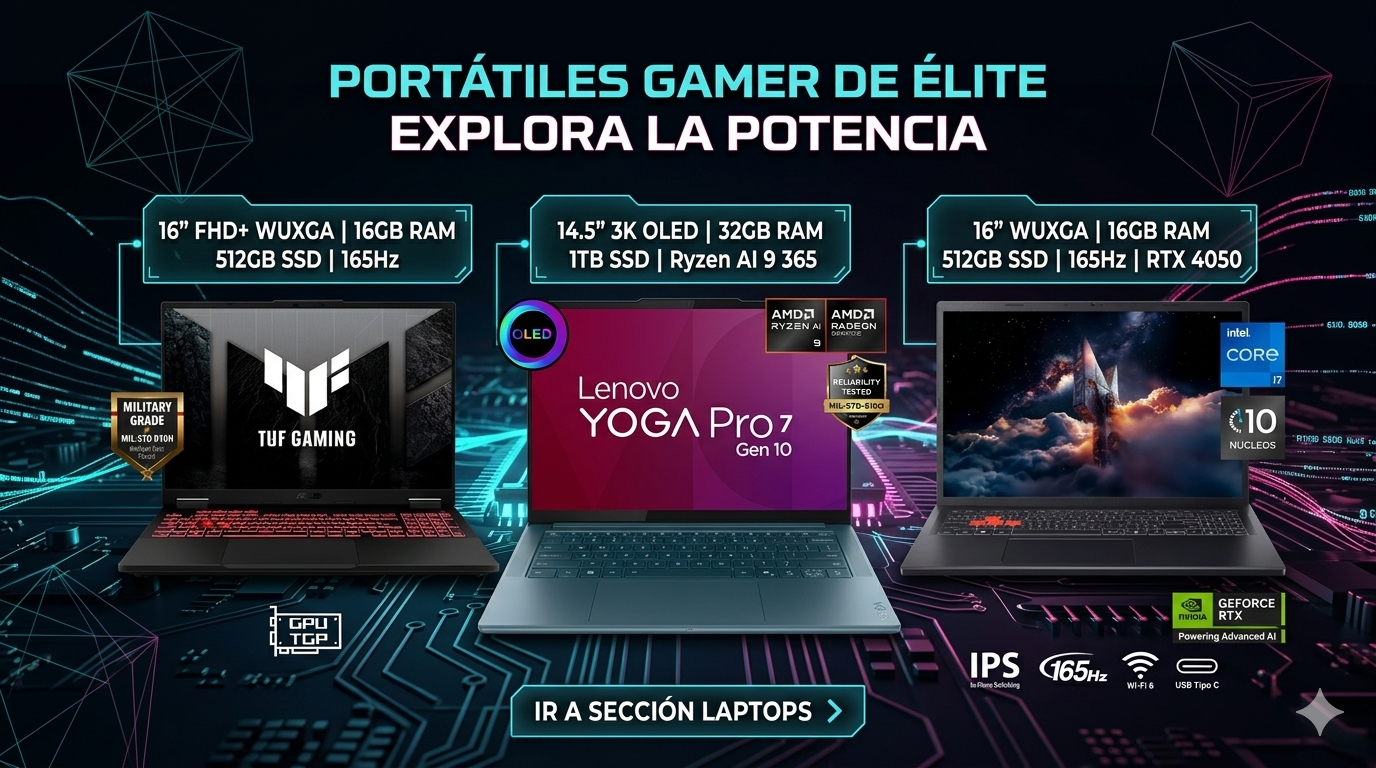
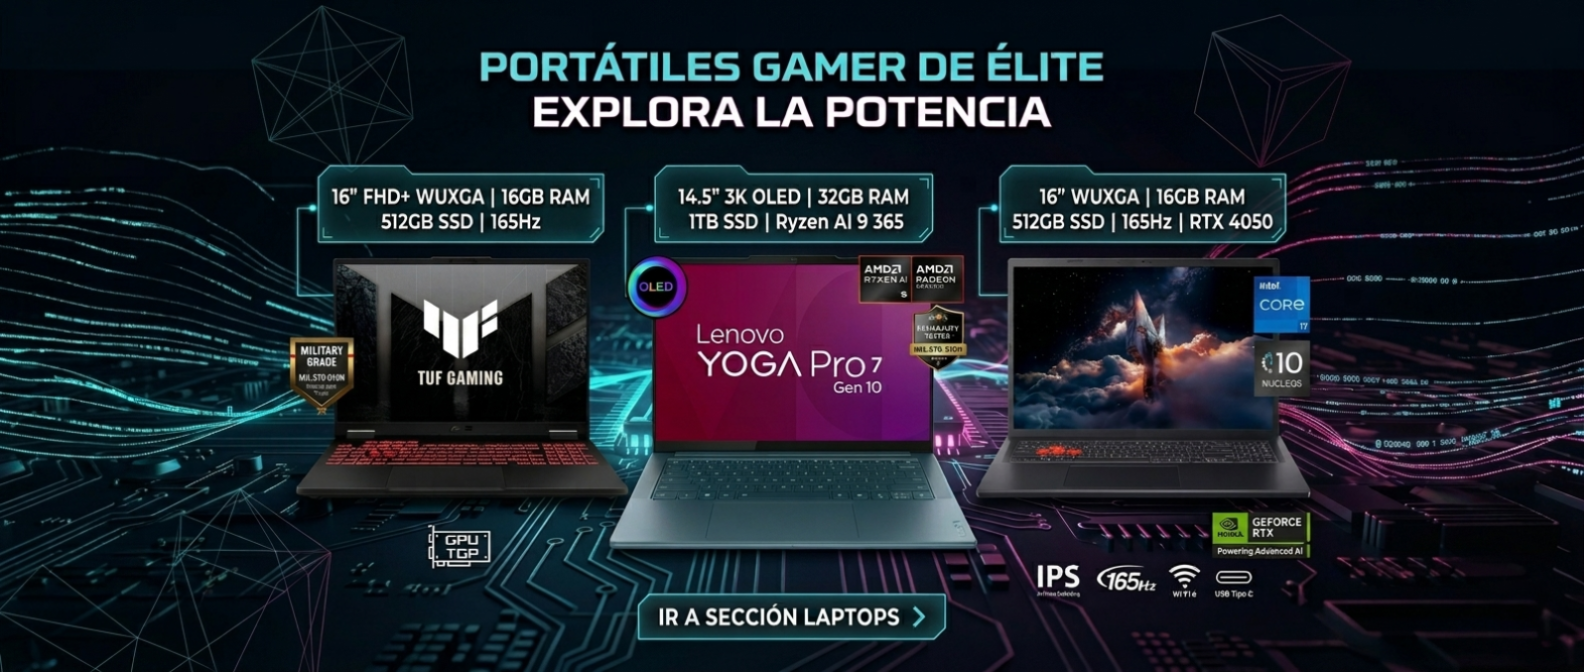
Fixed: Corrección de banner_laptop (mejor tamaño), laptop_card (cambio de fondo)

diff --git a/css/styles.css b/css/styles.css
@@ -58,7 +58,7 @@ header{
 }
 
 .banner img{
-    width: 60%;
+    width: 70%;
 }
 
 .productos{
@@ -79,7 +79,7 @@ header{
 
 .img-card{
     width: 30%;
-    border-radius: 10px;
+    border-radius: 20px;
 }
 
 .text-card{
